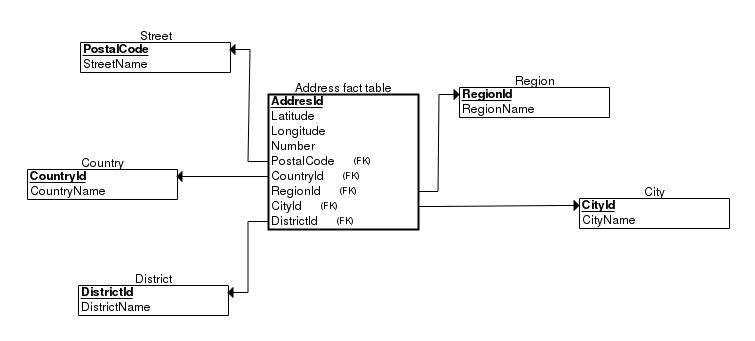
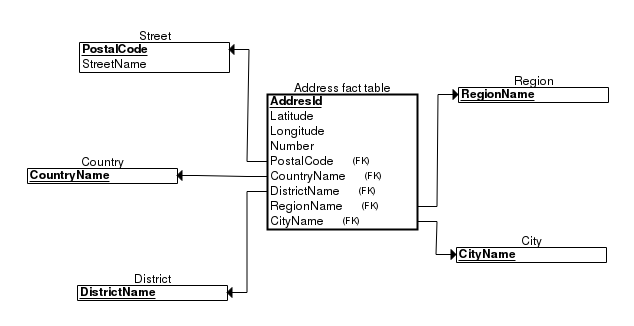
Advancing in assessment.

diff --git a/etl_python/code/extract_data.py b/etl_python/code/extract_data.py
@@ -1,33 +1,39 @@
-from os import chdir
-chdir('/home/aksmiyazaki/git/python_oo_improvement/etl_python/code')
-
-
 import argparse
 from os import listdir
 from os.path import join
 from os import getcwd
 import geoparse
+from database import DatabaseService
+from pointlocator import PointLocator
+from address import Address
 
 args = None
 input_dir = None
+database_path = None
 
 parser = argparse.ArgumentParser(description='Read raw data files and parse its contents')
-parser.add_argument('--ip', type=str, nargs='+', help='Input path of the raw_data files.')
+parser.add_argument("path", help='Input path of the raw_data files.')
+parser.add_argument('db', help='Complete path of .db file (sqlite database). Example: ../data/database.db')
 args = parser.parse_args()
 
 if args == None:
     input_dir = '/home/aksmiyazaki/git/python_oo_improvement/etl_python/raw_data'
+    database_path = '../data/database.db'
+else:
+    input_dir = str(args.path)
+    database_path = str(args.db)
 
+print(f"Running with the following arguments: [{input_dir}] [{database_path}]")
+input()
+
+db = DatabaseService.get_instance()
+db.initialize_database_conn(database_path)
 data_list = listdir(input_dir)
 geo_point = None
 geo_parser = geoparse.GeoParser()
+locator = PointLocator.get_instance()
 
 def next_state(cur_state):
-    """Given a state, returns the next expected state.
-    It is used to control the kind of state machine that was implemented reading files.
-    Keyword arguments:
-    cur_state -- the current state of the file reader
-    """
     if cur_state == geoparse.RowDataType.SEEK_LAT:
         return geoparse.RowDataType.SEEK_LON
     elif cur_state == geoparse.RowDataType.SEEK_LON:
@@ -38,45 +44,43 @@ def next_state(cur_state):
         raise Exception(f"[ERROR]   There is no next state for current {cur_state}")
 
 def reset_state(parser):
-    """
-    Resets the state of the file reader.
-    Keyword arguments:
-    parser -- a GeoParser object to be reseted
-    """
     parser.reset()
     return parser, geoparse.RowDataType.SEEK_LAT
 
-# This is data extraction's the main loop
 for raw_file in data_list:
-    raw_file = data_list[0]
-    file = open(join(input_dir, raw_file))
     row_counter = 0
     geo_parser, next_expected_line = reset_state(geo_parser)
-
-    for row in file:
-        row_counter += 1
-        row = row.strip()
-        try:
-            if geo_parser.match_row_data_type(next_expected_line, row):
-                geo_parser.parse_raw_data(row)
-                next_expected_line = next_state(next_expected_line)
-            else:
-                print(f"[WARNING] At Line {row_counter}")
-                print(f"[WARNING] {row} has no match with {next_expected_line}")
-                geo_parser, next_expected_line = reset_state(geo_parser)
-
-                # This is tricky, if we had a consistency problem, the current row
-                # Can be the start of a new Geographic point. This piece of code
-                # Ensures that it will be considered as first point
-                # (even when it wasn't expected)
+    print(f"Openning file {join(input_dir, raw_file)}")
+    input()
+    with open(join(input_dir, raw_file)) as file:
+        for row in file:
+            row_counter += 1
+            row = row.strip()
+            try:
                 if geo_parser.match_row_data_type(next_expected_line, row):
                     geo_parser.parse_raw_data(row)
                     next_expected_line = next_state(next_expected_line)
-        except Exception as e:
-            print(f"[ERROR] at line {row_counter}")
-            print(str(e))
-            geo_parser, next_expected_line = reset_state(geo_parser)
+                else:
+                    print(f"[WARNING] At Line {row_counter}")
+                    print(f"[WARNING] {row} has no match with {next_expected_line}")
+                    geo_parser, next_expected_line = reset_state(geo_parser)
 
-        if geo_parser.is_complete():
-            geo_point = geo_parser.get_geo_point()
-            geo_parser, next_expected_line = reset_state(geo_parser)
+                    if geo_parser.match_row_data_type(next_expected_line, row):
+                        geo_parser.parse_raw_data(row)
+                        next_expected_line = next_state(next_expected_line)
+            except Exception as e:
+                print(f"[ERROR] at line {row_counter}")
+                print(str(e))
+                geo_parser, next_expected_line = reset_state(geo_parser)
+
+            if geo_parser.is_complete():
+                geo_point = geo_parser.get_geo_point()
+                print(f"Completed geo point: {geo_point}")
+                input()
+                found_point = locator.find_point(geo_point)
+                print(f"Found: {found_point}")
+                input()
+                adr = Address(found_point)
+                adr.persist_address()
+                input()
+                geo_parser, next_expected_line = reset_state(geo_parser)

diff --git a/etl_python/code/address.py b/etl_python/code/address.py
@@ -1,15 +1,14 @@
-from os import chdir
-chdir('/home/aksmiyazaki/git/python_oo_improvement/etl_python/code')
-
 import pycountry_convert
-import database
+from database import DatabaseService
 from geopy.location import Location
-
+from sqlite3 import IntegrityError
 
 class Address:
-    """This class represents an address
+    """
+    his class represents an address
     It has a set of attributes that composes the object such as latitude, Longitude
-    street, number, district, etc."""
+    street, number, district, etc.
+    """
     latitude = None
     longitude = None
     street = None
@@ -21,7 +20,8 @@ class Address:
     country = None
 
     def __init__(self, geopy_location):
-        """ Class constructor, initializes address attributes.
+        """
+        Class constructor, initializes address attributes.
         Keyword arguments:
         geopy_location -- a GeoPy location with raw data to be converted into as
         Address object.
@@ -29,20 +29,58 @@ class Address:
         try:
             self.latitude = geopy_location.latitude
             self.longitude = geopy_location.longitude
-            self.street = geopy_location.raw['Address'].split(geopy_location.raw['AddNum'])[0].strip()
+            self.country = pycountry_convert.map_country_alpha3_to_country_name()[geopy_location.raw['CountryCode']].strip()
             self.number = geopy_location.raw['AddNum'].strip()
             self.district = geopy_location.raw['District'].strip()
             self.city = geopy_location.raw['City'].strip()
             self.postal_code = geopy_location.raw['Postal'].strip()
+            self.street = geopy_location.raw['Address'].split(geopy_location.raw['AddNum'])[0].strip()
             self.region = geopy_location.raw['Region'].strip()
-            self.country = pycountry_convert.map_country_alpha3_to_country_name()[geopy_location.raw['CountryCode']].strip()
         except Exception as e:
             print(f"Error parsing object")
             print(str(e))
             print(f"{str(geopy_location.raw)}")
 
+    def __insert_data(self, sql):
+        """
+        Method that inserts data into the database
+        If an IntegrityError is raised as exception, considers that it is
+        a unique constraint violation and moves on
+        Keyword arguments:
+        sql -- An insert sql.
+        """
+        try:
+            db.execute_insert(sql)
+        except IntegrityError as e:
+            pass
+        except Exception as e:
+            print(str(e))
+
     def persist_address(self):
         """
         This method persists Address in a star schema.
         """
-        
+        db = DatabaseService.get_instance()
+
+        sql_ins = f"INSERT INTO Country (CountryName) Values ({self.country});"
+        self.__insert_data(sql_ins)
+
+        sql_ins = f"INSERT INTO Region (RegionName) Values ({self.region});"
+        self.__insert_data(sql_ins)
+
+        sql_ins = f"INSERT INTO City (CityName) Values ({self.city});"
+        self.__insert_data(sql_ins)
+
+        sql_ins = f"INSERT INTO District (DistrictName) Values ({self.district})"
+        self.__insert_data(sql_ins)
+
+        sql_ins = f"INSERT INTO Street (PostalCode, StreetName) Values ({self.postal_code}, {self.street});"
+        self.__insert_data(sql_ins)
+
+        sql_ins = f"""INSERT INTO Address (Latitude, Longitude, Number, PostalCode,
+                      CountryName, DistrictName, RegionName, CityName) Values
+                      ({self.latitude}, {self.longidute}, {self.number},
+                      {self.postal_code}, {self.country}, {self.district}, {self.region},
+                      {self.city})
+                   """
+        db.execute_insert(sql_ins)

diff --git a/etl_python/code/pointlocator.py b/etl_python/code/pointlocator.py
@@ -1,6 +1,3 @@
-from os import chdir
-chdir('/home/aksmiyazaki/git/python_oo_improvement/etl_python/code')
-
 from geopy.location import Location
 from geopy.point import Point
 from geopy.geocoders import ArcGIS
@@ -25,13 +22,6 @@ class PointLocator:
         """
         return self.__cur_point
 
-    @CurrentPoint.setter
-    def CurrentPoint(self, value):
-        """
-        Sets the current point to be located.
-        """
-        self.__cur_point = value
-
     @staticmethod
     def get_instance():
         """
@@ -41,12 +31,20 @@ class PointLocator:
             PointLocator()
         return PointLocator.__instance
 
-    def locate_point(self):
+    def find_point(self, point):
         """
-        Method that locates the CurrentPoint.
-        Is assigns the result to a private attribute.
+        Method that, given a point, returns its raw location.
+        Returns a Geopy Location.
+        Keyword arguments:
+        point -- A Geopy Point object
         """
+        self.__cur_point = point
         self.__decoded_point = self.__coord_decoder.reverse(self.__cur_point, exactly_one=True, timeout=300)
+
+        if self.__decoded_point is not None:
+            return self.__decoded_point
+        else:
+            return None
 
     def __init__(self):
         """
@@ -59,19 +57,3 @@ class PointLocator:
         else:
             PointLocator.__instance = self
             self.__coord_decoder = ArcGIS()
-
-    def get_located_point(self):
-        """
-        Gets the decoded point.
-        """
-        if self.__decoded_point is not None:
-            return self.__decoded_point
-        else:
-            return None
-
-p = PointLocator()
-p.CurrentPoint = Point("30°02′59″S 51°12′05″W 2.2959 km")
-p.locate_point()
-lp = p.get_located_point()
-addr = address.Address(lp)
-lp.raw

diff --git a/etl_python/code/database.py b/etl_python/code/database.py
@@ -1,7 +1,5 @@
-from os import chdir
-chdir('/home/aksmiyazaki/git/python_oo_improvement/etl_python/code')
-
 import sqlite3
+from sqlite3 import IntegrityError
 
 
 class DatabaseService:
